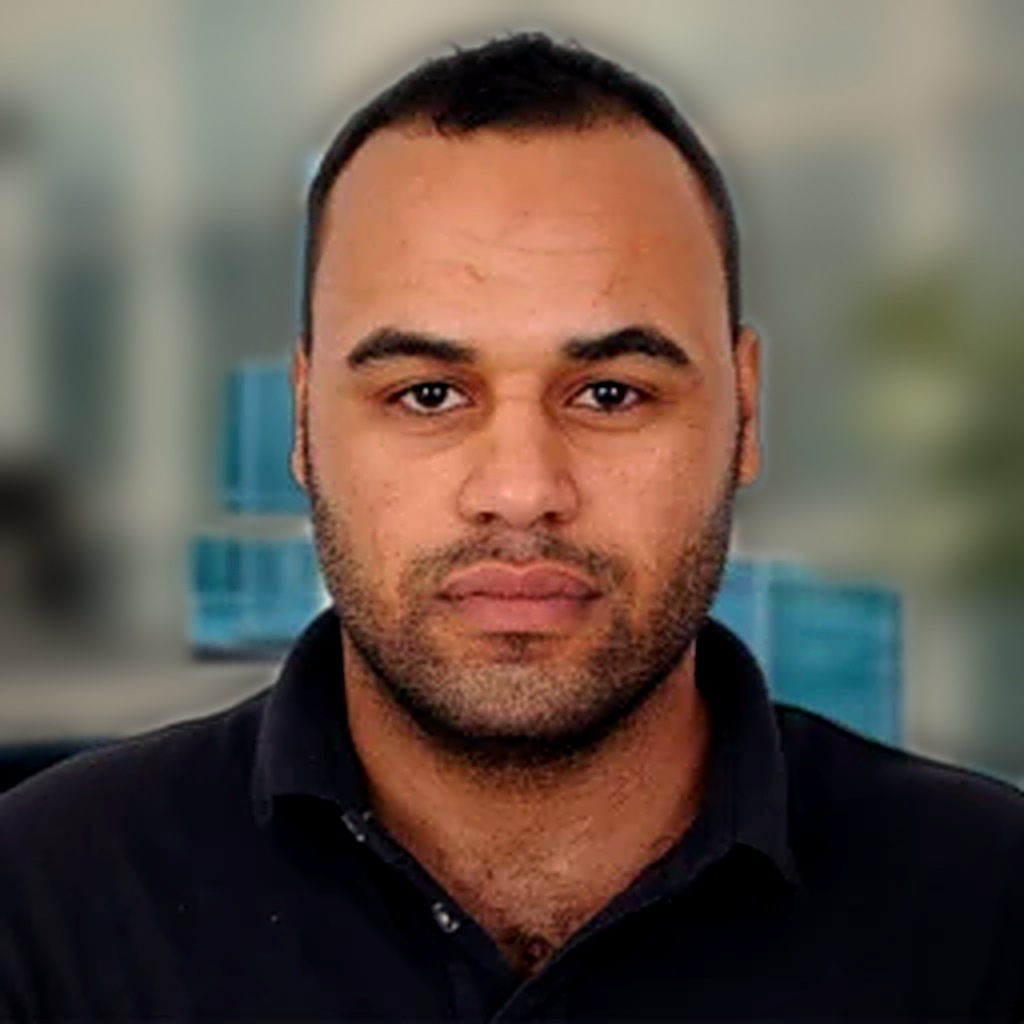
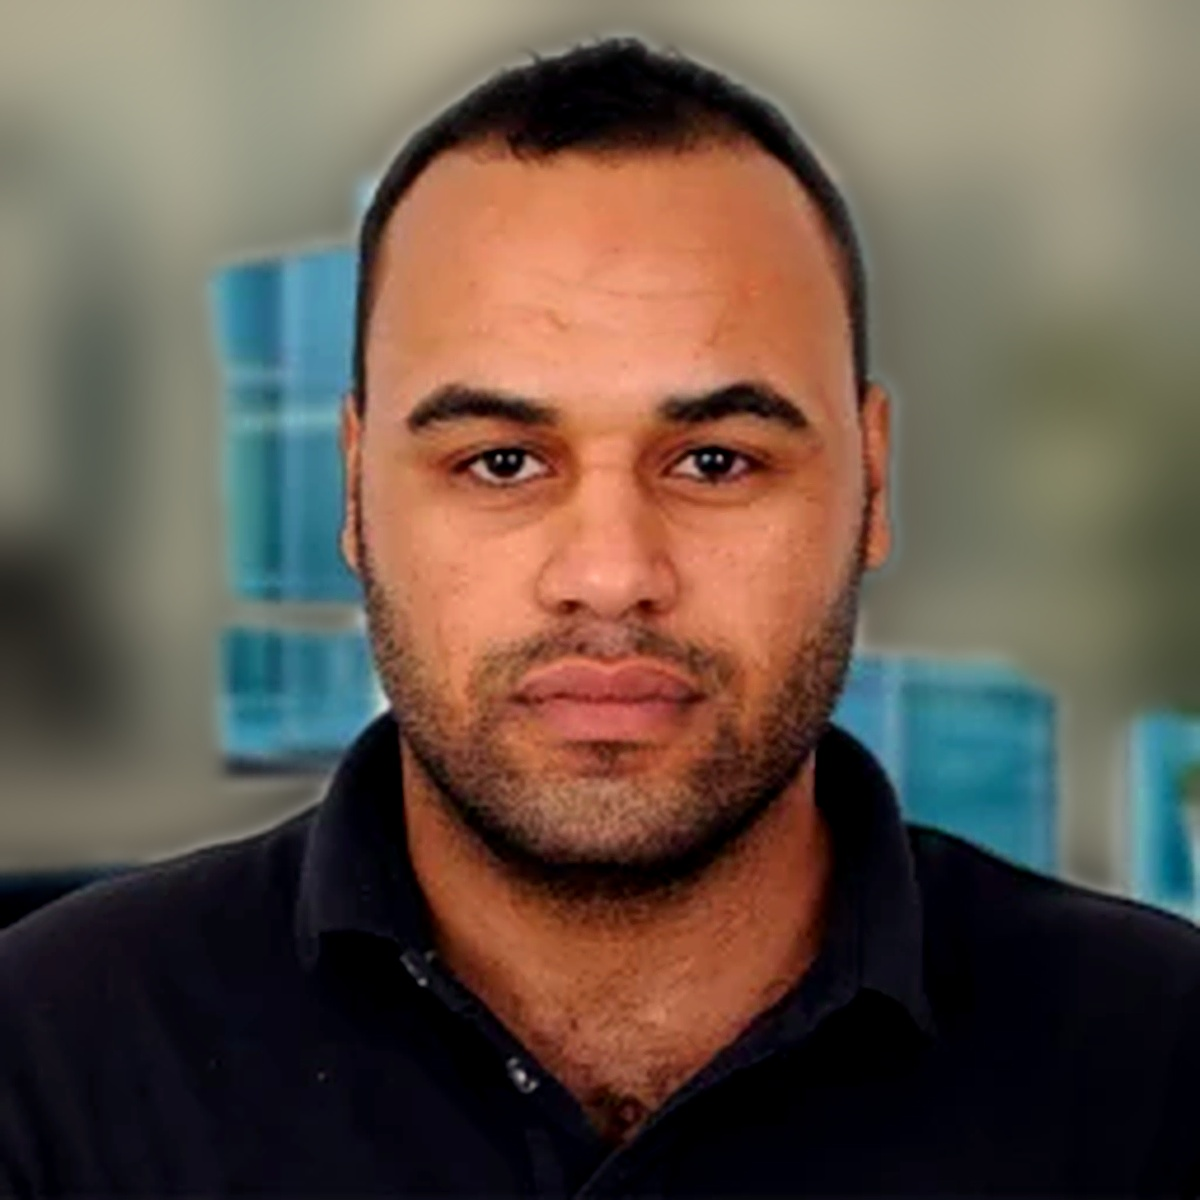
Hero rewrite: rotating animated word, tilt portrait, refined photo
- lib/site.ts: rewrote the hero copy the user disliked. Structure is
  now "I build [animated word] that win in Arabic search." with a
  punchier, more specific subhead (still true: Cairo, 8 years, Wazifatk,
  dozens of Gulf client sites — same facts as the stats/other-work data
  already on the page, just written with more voice).
- components/RotatingWord.tsx: cycles through content
  platforms/interactive tools/job platforms/e-commerce stores with a
  fade+slide transition. Locks to the first word under
  prefers-reduced-motion instead of cycling.
- components/HeroPortrait.tsx: slowly rotating conic-gradient ring,
  a cursor-tracked 3D tilt, and a light sweep on hover. Static (ring
  still visible, no tilt) under prefers-reduced-motion since there's
  no cursor to tilt toward anyway. Reused as-is once — no duplicate
  markup left behind in app/page.tsx.
- public/mohamed-khalifa.jpg: reprocessed with a lighter touch than it
  sounds — a single mild bilateral pass to calm the 256->1200px
  upscale noise (an earlier double-pass attempt over-smoothed into a
  plastic/painted look and was dialled back), plus a warmer grade and
  a more pronounced neutral-toned bokeh background. Same file is used
  on /about, so that page picks up the improvement too.

diff --git a/components/HeroPortrait.tsx b/components/HeroPortrait.tsx
@@ -1,0 +1,73 @@
+"use client";
+
+import { useRef, useState, type MouseEvent } from "react";
+import Image from "next/image";
+import { Sparkles } from "lucide-react";
+import { site } from "@/lib/site";
+
+/** The hero photo: a slowly rotating accent ring behind it, a subtle
+ *  cursor-tracked 3D tilt, and a light sweep on hover. Falls back to a
+ *  static (still shadowed/ringed) card under prefers-reduced-motion or
+ *  on touch, since there's no cursor to tilt toward. */
+export default function HeroPortrait() {
+  const ref = useRef<HTMLDivElement>(null);
+  const [tilt, setTilt] = useState({ x: 0, y: 0 });
+
+  function handleMouseMove(e: MouseEvent<HTMLDivElement>) {
+    const rect = ref.current?.getBoundingClientRect();
+    if (!rect) return;
+    const px = (e.clientX - rect.left) / rect.width - 0.5;
+    const py = (e.clientY - rect.top) / rect.height - 0.5;
+    setTilt({ x: py * -10, y: px * 12 });
+  }
+
+  function reset() {
+    setTilt({ x: 0, y: 0 });
+  }
+
+  return (
+    <div className="relative mx-auto w-full max-w-[360px]" style={{ perspective: "1000px" }}>
+      {/* rotating accent ring */}
+      <div
+        aria-hidden="true"
+        className="animate-spin-slow motion-reduce:animate-none pointer-events-none absolute -inset-5 rounded-[2.25rem] opacity-70"
+        style={{
+          background:
+            "conic-gradient(from 0deg, var(--color-accent) 0deg, transparent 110deg, transparent 250deg, var(--color-accent) 360deg)",
+          filter: "blur(18px)",
+        }}
+      />
+      <div
+        aria-hidden="true"
+        className="pointer-events-none absolute -inset-4 rounded-[2rem] bg-gradient-to-br from-accent/30 via-accent/5 to-transparent blur-2xl"
+      />
+
+      <div
+        ref={ref}
+        onMouseMove={handleMouseMove}
+        onMouseLeave={reset}
+        className="group relative overflow-hidden rounded-[1.75rem] border-[0.5px] border-hairline shadow-2xl transition-transform duration-200 ease-out motion-reduce:transform-none"
+        style={{ transform: `rotateX(${tilt.x}deg) rotateY(${tilt.y}deg)`, transformStyle: "preserve-3d" }}
+      >
+        <Image
+          src="/mohamed-khalifa.jpg"
+          alt={site.name}
+          width={720}
+          height={720}
+          priority
+          className="aspect-square w-full object-cover"
+        />
+        {/* light sweep on hover */}
+        <div
+          aria-hidden="true"
+          className="pointer-events-none absolute inset-0 -translate-x-full bg-gradient-to-r from-transparent via-white/15 to-transparent transition-transform duration-700 ease-out group-hover:translate-x-full"
+        />
+      </div>
+
+      <div className="absolute -bottom-5 -right-5 flex items-center gap-2 rounded-full border-[0.5px] border-hairline bg-paper px-4 py-2 shadow-xl">
+        <Sparkles size={14} className="text-accent" />
+        <span className="font-mono text-xs text-ink">{site.location}</span>
+      </div>
+    </div>
+  );
+}

diff --git a/app/page.tsx b/app/page.tsx
@@ -1,15 +1,10 @@
 import Link from "next/link";
-import Image from "next/image";
-import {
-  Newspaper,
-  Calculator,
-  SearchCheck,
-  ArrowRight,
-  Sparkles,
-} from "lucide-react";
+import { Newspaper, Calculator, SearchCheck, ArrowRight } from "lucide-react";
 import StatusBadge from "@/components/StatusBadge";
 import ProjectCard from "@/components/ProjectCard";
 import Reveal from "@/components/Reveal";
+import RotatingWord from "@/components/RotatingWord";
+import HeroPortrait from "@/components/HeroPortrait";
 import { hero, whatIDo, workSection, site, contact, stats, blog } from "@/lib/site";
 import { readyFeaturedProjects, hasPublicAsset } from "@/lib/projects";
 import { otherWork } from "@/lib/other-work";
@@ -52,11 +47,11 @@ export default function Home() {
             <StatusBadge />
 
             <h1 className="text-[clamp(36px,7vw,80px)] font-medium uppercase leading-[1.03] tracking-[-0.02em] text-ink">
-              I build web platforms
+              {hero.lead}
               <br />
-              <span className="text-secondary">
-                for the Arabic market<span className="text-accent">.</span>
-              </span>
+              <RotatingWord words={hero.rotating} className="text-accent" />
+              <br />
+              <span className="text-secondary">{hero.tail}</span>
             </h1>
 
             <p className="max-w-[460px] text-[15px] leading-[1.7] text-secondary sm:text-lg">
@@ -81,26 +76,7 @@ export default function Home() {
             <p className="font-mono text-xs text-muted">{hero.stack.join(" · ")}</p>
           </div>
 
-          <div className="relative mx-auto w-full max-w-[360px]">
-            <div
-              aria-hidden="true"
-              className="absolute -inset-4 rounded-[2rem] bg-gradient-to-br from-accent/30 via-accent/5 to-transparent blur-2xl"
-            />
-            <div className="relative overflow-hidden rounded-[1.75rem] border-[0.5px] border-hairline shadow-2xl">
-              <Image
-                src="/mohamed-khalifa.jpg"
-                alt={site.name}
-                width={720}
-                height={720}
-                priority
-                className="aspect-square w-full object-cover"
-              />
-            </div>
-            <div className="absolute -bottom-5 -right-5 flex items-center gap-2 rounded-full border-[0.5px] border-hairline bg-paper px-4 py-2 shadow-xl">
-              <Sparkles size={14} className="text-accent" />
-              <span className="font-mono text-xs text-ink">{site.location}</span>
-            </div>
-          </div>
+          <HeroPortrait />
         </div>
       </section>
 

diff --git a/components/RotatingWord.tsx b/components/RotatingWord.tsx
@@ -1,0 +1,61 @@
+"use client";
+
+import { useEffect, useState, useSyncExternalStore } from "react";
+
+const REDUCED_MOTION_QUERY = "(prefers-reduced-motion: reduce)";
+
+function subscribeReducedMotion(callback: () => void) {
+  const mq = window.matchMedia(REDUCED_MOTION_QUERY);
+  mq.addEventListener("change", callback);
+  return () => mq.removeEventListener("change", callback);
+}
+function getReducedMotionSnapshot() {
+  return window.matchMedia(REDUCED_MOTION_QUERY).matches;
+}
+function getReducedMotionServerSnapshot() {
+  return false;
+}
+
+/** Cycles through `words`, fading/sliding each one in and out. Reduced-
+ *  motion visitors get the first word only, no interval — nothing to
+ *  distract, nothing that can get stuck mid-transition. */
+export default function RotatingWord({
+  words,
+  className,
+  interval = 2400,
+}: {
+  words: string[];
+  className?: string;
+  interval?: number;
+}) {
+  const [index, setIndex] = useState(0);
+  const [entering, setEntering] = useState(true);
+  const reduced = useSyncExternalStore(
+    subscribeReducedMotion,
+    getReducedMotionSnapshot,
+    getReducedMotionServerSnapshot
+  );
+
+  useEffect(() => {
+    if (reduced || words.length < 2) return;
+    const swap = setInterval(() => {
+      setEntering(false);
+      const timeout = setTimeout(() => {
+        setIndex((i) => (i + 1) % words.length);
+        setEntering(true);
+      }, 280);
+      return () => clearTimeout(timeout);
+    }, interval);
+    return () => clearInterval(swap);
+  }, [reduced, words.length, interval]);
+
+  return (
+    <span
+      className={`inline-block transition-all duration-300 ease-out ${
+        entering ? "translate-y-0 opacity-100" : "-translate-y-2 opacity-0"
+      } ${className ?? ""}`}
+    >
+      {words[index]}
+    </span>
+  );
+}

diff --git a/lib/site.ts b/lib/site.ts
@@ -27,9 +27,12 @@ export const nav = [
 ];
 
 export const hero = {
-  h1: "I build web platforms for the Arabic market",
+  lead: "I build",
+  // Cycles in the animated word slot — components/RotatingWord.tsx.
+  rotating: ["content platforms", "interactive tools", "job platforms", "e-commerce stores"],
+  tail: "that win in Arabic search.",
   subhead:
-    "Full-stack developer. I ship content platforms and interactive tools in Arabic that load fast, rank well, and install on a phone like an app.",
+    "Full-stack developer based in Cairo. Eight years turning briefs into fast, Arabic-first products — from a Saudi job platform with five labour-law calculators to dozens of stores and corporate sites across the Gulf.",
   primaryCta: { label: "View work", href: "#work" },
   secondaryCta: { label: "Get in touch", href: "/contact" },
   stack: ["Laravel", "Next.js", "PHP", "TypeScript", "Tailwind", "MySQL"],

diff --git a/app/globals.css b/app/globals.css
@@ -90,6 +90,17 @@ html {
   animation: blob-float 14s ease-in-out infinite;
 }
 
+/* Slow rotation for the accent ring behind the hero portrait. */
+@keyframes spin-slow {
+  to {
+    transform: rotate(360deg);
+  }
+}
+
+@utility animate-spin-slow {
+  animation: spin-slow 16s linear infinite;
+}
+
 /* Fade-up entrance — components/Reveal.tsx applies this class directly (no
  * JS/IntersectionObserver). A plain CSS animation always resolves to fully
  * visible on its own regardless of scroll position, so content already
